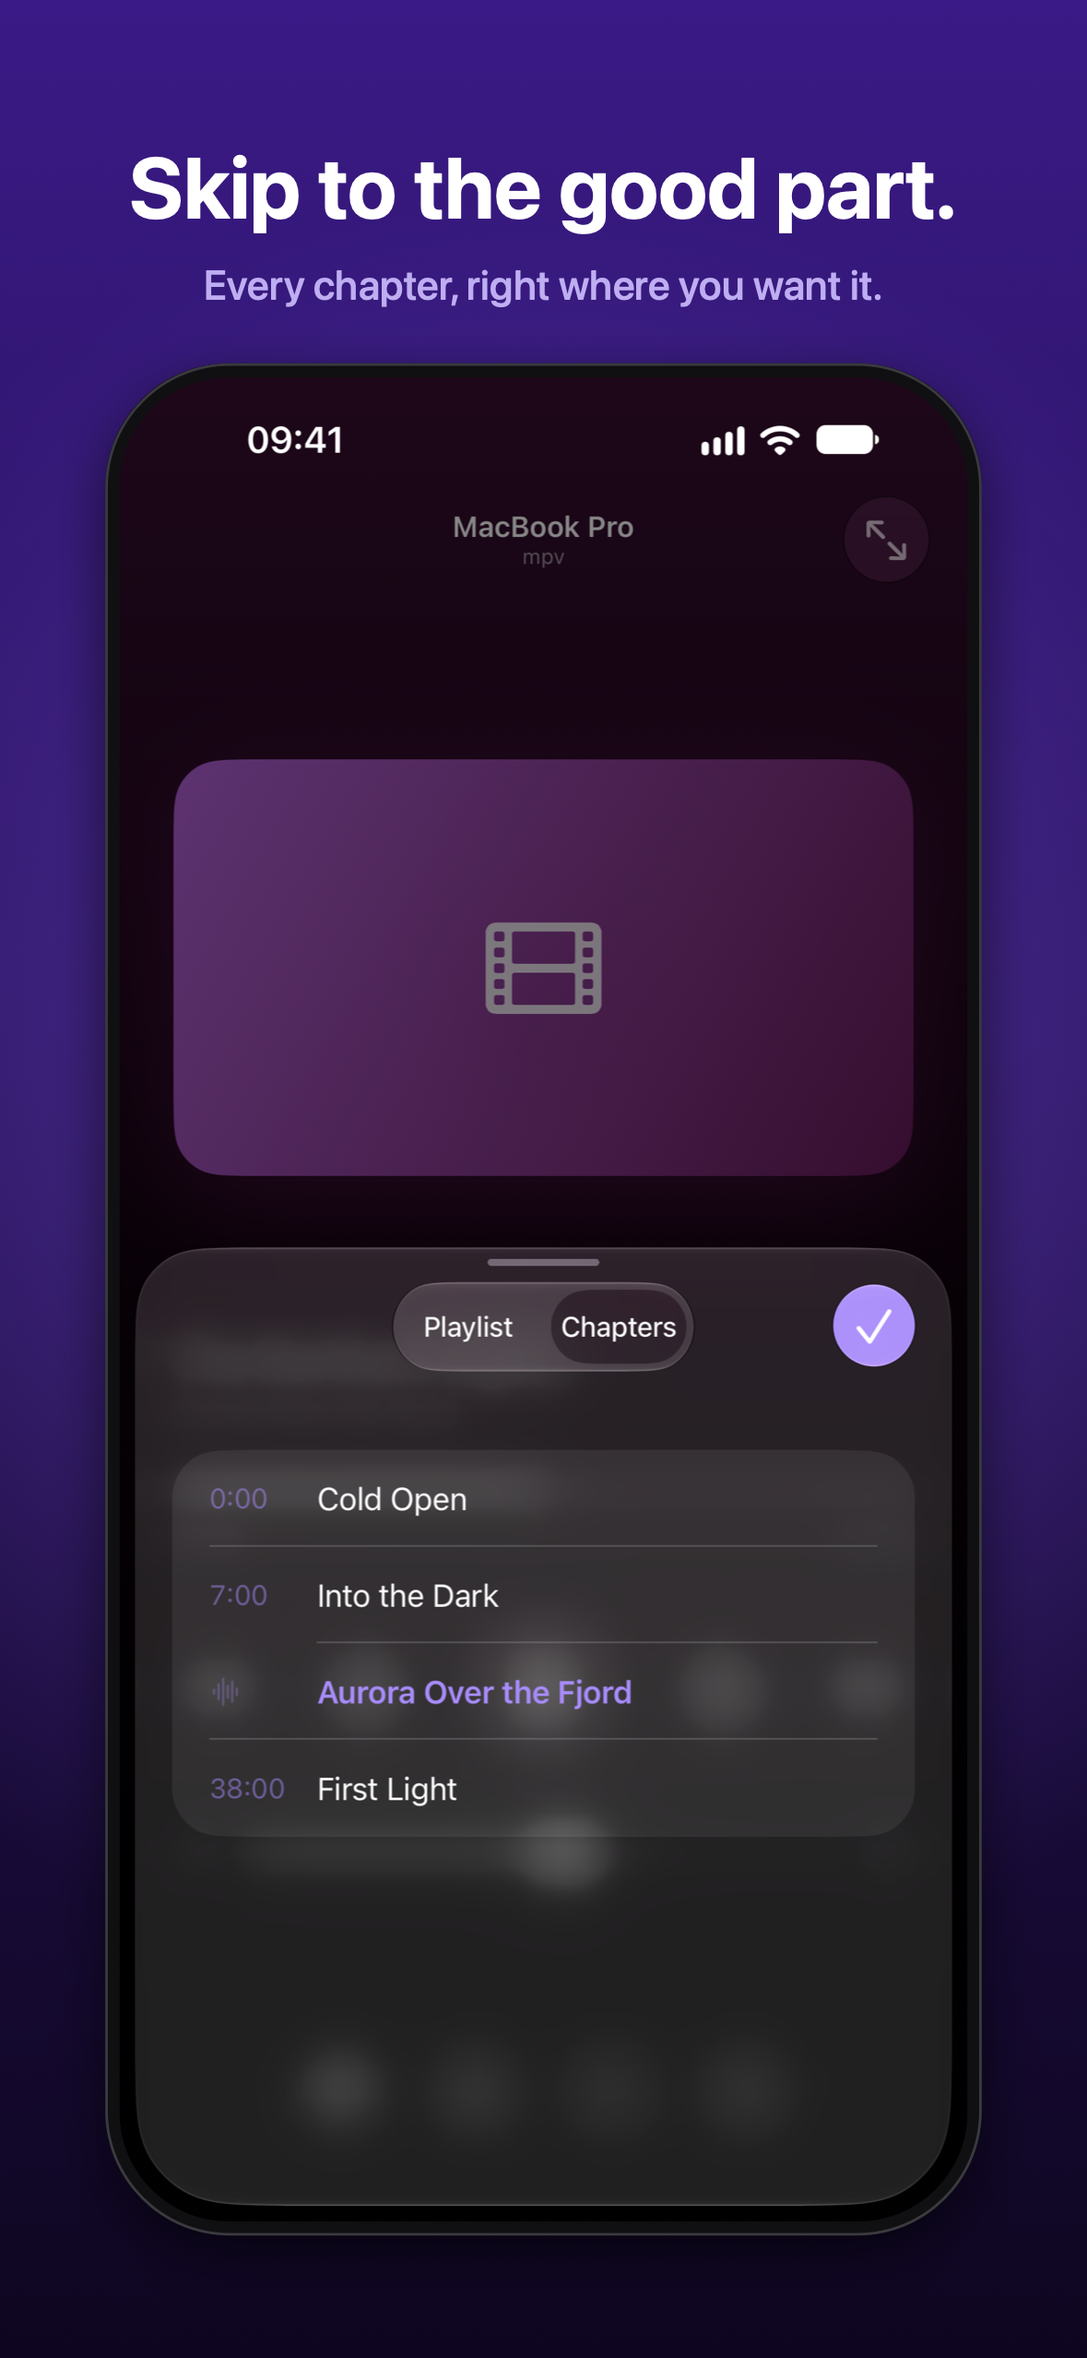
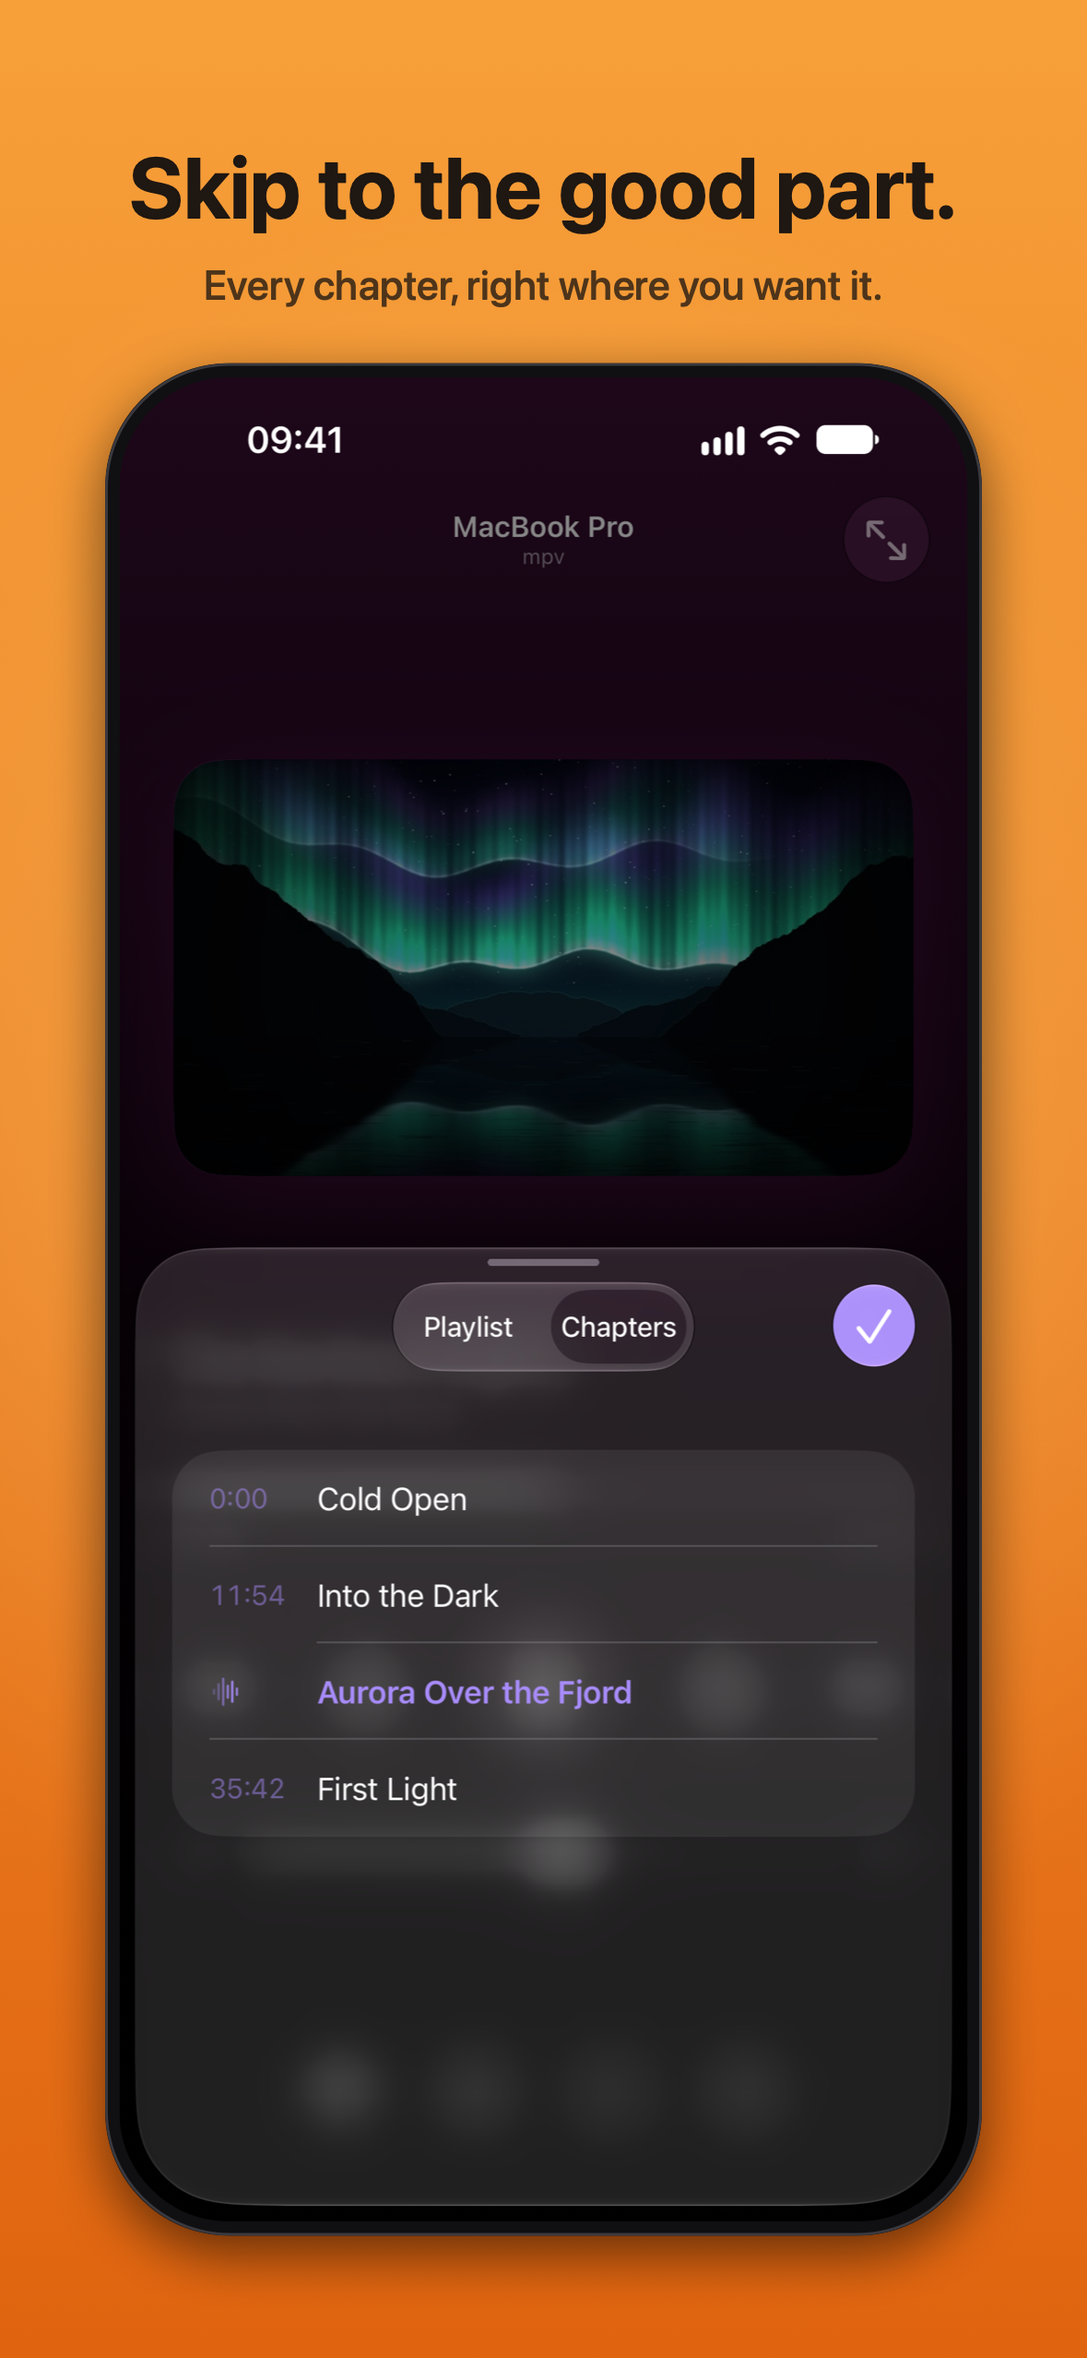
Put the App Store art on the tiger's orange, with screenshots from a stand-in Mac
The screenshots and headers move from purple to the icon's orange, with
dark text, and the headers' icon gets a shadow so it doesn't melt into the
backdrop. The phone in the screenshots is connected to "MacBook Pro" and
shows a picture: ScreenshotCompanion runs the companion's own server and
pairing with the demo series, sending a frame make-demo-frame.swift draws.

diff --git a/App/Tools/make-demo-frame.swift b/App/Tools/make-demo-frame.swift
@@ -1,0 +1,197 @@
+import AppKit
+import CoreImage
+
+// Draws the frame the App Store screenshots show in the artwork: a made-up
+// still for the demo's "The Northern Lights", an aurora over a fjord. It is
+// saved as the companion sends frames, a 960 px JPEG.
+//
+//   swift make-demo-frame.swift <out.jpg>
+
+let W = 1920, H = 1080
+let horizon: CGFloat = 360
+let space = CGColorSpace(name: CGColorSpace.sRGB)!
+let ci = CIContext(options: [.workingColorSpace: space])
+
+func context() -> CGContext {
+    CGContext(data: nil, width: W, height: H, bitsPerComponent: 8, bytesPerRow: 0, space: space,
+              bitmapInfo: CGImageAlphaInfo.premultipliedLast.rawValue)!
+}
+
+func rgb(_ hex: UInt32, _ a: CGFloat = 1) -> CGColor {
+    CGColor(srgbRed: CGFloat((hex >> 16) & 0xFF) / 255, green: CGFloat((hex >> 8) & 0xFF) / 255,
+            blue: CGFloat(hex & 0xFF) / 255, alpha: a)
+}
+
+struct RNG {
+    var s: UInt64
+    mutating func next() -> CGFloat {
+        s = s &* 6364136223846793005 &+ 1442695040888963407
+        return CGFloat(Double(s >> 11) / Double(UInt64(1) << 53))
+    }
+}
+var rng = RNG(s: 20261028)
+
+func clamp(_ v: CGFloat) -> CGFloat { min(max(v, 0), 1) }
+
+// MARK: Sky and stars
+
+let sky = context()
+let skyGradient = CGGradient(colorsSpace: space, colors: [rgb(0x15505A), rgb(0x0A2A3A), rgb(0x061226), rgb(0x030616)] as CFArray,
+                             locations: [0, 0.18, 0.55, 1])!
+sky.drawLinearGradient(skyGradient, start: CGPoint(x: 0, y: horizon), end: CGPoint(x: 0, y: CGFloat(H)), options: [.drawsBeforeStartLocation])
+for _ in 0..<900 {
+    let x = rng.next() * CGFloat(W), y = horizon + 80 + rng.next() * (CGFloat(H) - horizon - 80)
+    let r = 0.5 + pow(rng.next(), 4) * 1.6
+    sky.setFillColor(rgb(0xEAF2FF, 0.25 + rng.next() * 0.7))
+    sky.fillEllipse(in: CGRect(x: x - r, y: y - r, width: 2 * r, height: 2 * r))
+}
+
+// MARK: Aurora: curtains of vertical rays
+
+struct Curtain {
+    var base: (CGFloat) -> CGFloat
+    var height: (CGFloat) -> CGFloat
+    var envelope: (CGFloat) -> CGFloat
+    var low: UInt32, mid: UInt32, high: UInt32
+    var strength: CGFloat
+}
+
+let curtains = [
+    // The main ribbon, dipping towards the end of the fjord.
+    Curtain(base: { x in horizon + 175 + 300 * pow((x - 1080) / 1150, 2) + 38 * sin(x / 150 + 0.7) + 18 * sin(x / 53) },
+            height: { x in 380 + 110 * sin(x / 230 + 1.4) + 40 * sin(x / 71) },
+            envelope: { x in clamp(1.25 - pow((x - 1000) / 1050, 2)) },
+            low: 0xD8FFE8, mid: 0x34F2A2, high: 0x9A5CFF, strength: 1.0),
+    // A fainter one above it, more violet.
+    Curtain(base: { x in horizon + 470 + 60 * sin(x / 240 + 2) - 0.1 * (x - 960) + 22 * sin(x / 61) },
+            height: { x in 280 + 80 * sin(x / 180 + 0.3) },
+            envelope: { x in clamp(1 - pow((x - 760) / 820, 2)) },
+            low: 0xC0FFEC, mid: 0x3BE0B0, high: 0xC86BFF, strength: 0.6),
+]
+
+let aurora = context()
+aurora.setBlendMode(.plusLighter)
+for curtain in curtains {
+    for xi in 0..<W {
+        let x = CGFloat(xi)
+        let rays = 0.55 + 0.25 * sin(x / 19 + 1.7) * sin(x / 6.1) + 0.2 * sin(x / 43 + 0.4)
+        let a = clamp(rays) * curtain.envelope(x) * curtain.strength
+        guard a > 0.01 else { continue }
+        let y0 = curtain.base(x), h = curtain.height(x)
+        let g = CGGradient(colorsSpace: space,
+                           colors: [rgb(curtain.low, 0), rgb(curtain.low, a), rgb(curtain.mid, a * 0.85),
+                                    rgb(curtain.mid, a * 0.45), rgb(curtain.high, a * 0.3), rgb(curtain.high, 0)] as CFArray,
+                           locations: [0, 0.015, 0.1, 0.4, 0.72, 1])!
+        aurora.saveGState()
+        aurora.clip(to: CGRect(x: x, y: y0 - 6, width: 1, height: h + 6))
+        aurora.drawLinearGradient(g, start: CGPoint(x: x, y: y0 - 6), end: CGPoint(x: x, y: y0 + h), options: [])
+        aurora.restoreGState()
+    }
+    // The bright lower edge that makes it read as a ribbon.
+    for xi in stride(from: 0, to: W, by: 2) {
+        let x = CGFloat(xi), e = curtain.envelope(x) * curtain.strength
+        guard e > 0.02 else { continue }
+        aurora.setStrokeColor(rgb(curtain.low, 0.4 * e))
+        aurora.setLineWidth(3)
+        aurora.move(to: CGPoint(x: x, y: curtain.base(x)))
+        aurora.addLine(to: CGPoint(x: x + 2, y: curtain.base(x + 2)))
+        aurora.strokePath()
+    }
+}
+
+let auroraImage = CIImage(cgImage: aurora.makeImage()!)
+let soft = auroraImage.applyingGaussianBlur(sigma: 1.4).cropped(to: auroraImage.extent)
+let glow = auroraImage.applyingGaussianBlur(sigma: 28).cropped(to: auroraImage.extent)
+    .applyingFilter("CIColorControls", parameters: [kCIInputSaturationKey: 1.2, kCIInputBrightnessKey: 0])
+var scene = CIImage(cgImage: sky.makeImage()!)
+scene = soft.applyingFilter("CIAdditionCompositing", parameters: [kCIInputBackgroundImageKey: scene])
+scene = glow.applyingFilter("CIAdditionCompositing", parameters: [kCIInputBackgroundImageKey: scene])
+
+// MARK: Mountains
+
+/// A jagged ridge between two points, by midpoint displacement.
+func ridge(from a: CGPoint, to b: CGPoint, roughness: CGFloat, depth: Int) -> [CGPoint] {
+    var points = [a, b]
+    var spread = roughness
+    for _ in 0..<depth {
+        var next: [CGPoint] = []
+        for i in 0..<(points.count - 1) {
+            let p = points[i], q = points[i + 1]
+            next.append(p)
+            next.append(CGPoint(x: (p.x + q.x) / 2 + (rng.next() - 0.5) * spread * 0.3,
+                                y: (p.y + q.y) / 2 + (rng.next() - 0.5) * spread))
+        }
+        next.append(points.last!)
+        points = next
+        spread *= 0.55
+    }
+    return points
+}
+
+func fill(_ ctx: CGContext, ridge points: [CGPoint], down floor: CGFloat, color: CGColor, rim: CGColor? = nil) {
+    let path = CGMutablePath()
+    path.move(to: CGPoint(x: points[0].x, y: floor))
+    points.forEach { path.addLine(to: $0) }
+    path.addLine(to: CGPoint(x: points.last!.x, y: floor))
+    path.closeSubpath()
+    ctx.addPath(path)
+    ctx.setFillColor(color)
+    ctx.fillPath()
+    if let rim {
+        ctx.addPath({ let p = CGMutablePath(); p.addLines(between: points); return p }())
+        ctx.setStrokeColor(rim)
+        ctx.setLineWidth(1.5)
+        ctx.strokePath()
+    }
+}
+
+let land = context()
+// Far peaks at the end of the fjord, faintly lit by the aurora.
+fill(land, ridge: ridge(from: CGPoint(x: 560, y: horizon + 30), to: CGPoint(x: 1420, y: horizon + 20), roughness: 120, depth: 7)
+        .map { CGPoint(x: $0.x, y: max($0.y, horizon) + 40 * sin(($0.x - 560) / 860 * .pi)) },
+     down: horizon - 2, color: rgb(0x0E2430), rim: rgb(0x3FBF96, 0.35))
+// Middle slopes.
+fill(land, ridge: ridge(from: CGPoint(x: 300, y: horizon + 150), to: CGPoint(x: 900, y: horizon + 6), roughness: 90, depth: 7),
+     down: horizon - 2, color: rgb(0x08151E), rim: rgb(0x2E9C7C, 0.25))
+fill(land, ridge: ridge(from: CGPoint(x: 1050, y: horizon + 10), to: CGPoint(x: 1700, y: horizon + 170), roughness: 90, depth: 7),
+     down: horizon - 2, color: rgb(0x08151E), rim: rgb(0x2E9C7C, 0.25))
+// The fjord's steep walls, closest and darkest.
+fill(land, ridge: [CGPoint(x: -10, y: horizon + 560)] + ridge(from: CGPoint(x: 0, y: horizon + 540), to: CGPoint(x: 700, y: horizon), roughness: 150, depth: 8),
+     down: horizon - 2, color: rgb(0x03070B), rim: rgb(0x1E6E5A, 0.3))
+fill(land, ridge: ridge(from: CGPoint(x: 1260, y: horizon), to: CGPoint(x: 1930, y: horizon + 470), roughness: 150, depth: 8),
+     down: horizon - 2, color: rgb(0x03070B), rim: rgb(0x1E6E5A, 0.3))
+
+scene = CIImage(cgImage: land.makeImage()!).composited(over: scene)
+
+// MARK: Water: the scene mirrored, darker and smeared sideways
+
+let above = scene.cropped(to: CGRect(x: 0, y: horizon, width: CGFloat(W), height: CGFloat(H) - horizon))
+let mirrored = above.transformed(by: CGAffineTransform(a: 1, b: 0, c: 0, d: -1, tx: 0, ty: 2 * horizon)).clampedToExtent()
+    .applyingFilter("CIMotionBlur", parameters: [kCIInputRadiusKey: 14, kCIInputAngleKey: 0])
+    .applyingFilter("CIColorMatrix", parameters: [
+        "inputRVector": CIVector(x: 0.5, y: 0, z: 0, w: 0), "inputGVector": CIVector(x: 0, y: 0.55, z: 0, w: 0),
+        "inputBVector": CIVector(x: 0, y: 0, z: 0.6, w: 0), "inputBiasVector": CIVector(x: 0.004, y: 0.008, z: 0.016, w: 0),
+    ])
+    .cropped(to: CGRect(x: 0, y: 0, width: CGFloat(W), height: horizon))
+scene = above.composited(over: mirrored)
+
+let finish = context()
+finish.draw(ci.createCGImage(scene, from: CGRect(x: 0, y: 0, width: W, height: H))!, in: CGRect(x: 0, y: 0, width: W, height: H))
+// Ripples catching the light, and the water darkening towards us.
+for _ in 0..<420 {
+    let y = pow(rng.next(), 1.6) * (horizon - 8)
+    let x = rng.next() * CGFloat(W), length = 20 + rng.next() * 160 * (1 - y / horizon)
+    finish.setFillColor(rng.next() < 0.6 ? rgb(0x000000, 0.35) : rgb(0x8FFFD2, 0.06 + 0.06 * y / horizon))
+    finish.fill(CGRect(x: x, y: y, width: length, height: 1 + rng.next() * 1.5))
+}
+let shade = CGGradient(colorsSpace: space, colors: [rgb(0x000000, 0.65), rgb(0x000000, 0)] as CFArray, locations: [0, 1])!
+finish.drawLinearGradient(shade, start: .zero, end: CGPoint(x: 0, y: horizon), options: [])
+
+var out = CIImage(cgImage: finish.makeImage()!)
+out = out.applyingFilter("CIVignette", parameters: [kCIInputIntensityKey: 0.45, kCIInputRadiusKey: 1.8])
+out = out.cropped(to: CGRect(x: 0, y: 0, width: W, height: H))
+
+out = out.applyingFilter("CILanczosScaleTransform", parameters: [kCIInputScaleKey: 0.5])
+let url = URL(fileURLWithPath: CommandLine.arguments[1])
+try! ci.writeJPEGRepresentation(of: out, to: url, colorSpace: space,
+                                options: [CIImageRepresentationOption(rawValue: kCGImageDestinationLossyCompressionQuality as String): 0.7])

diff --git a/App/Tools/make-store-art.swift b/App/Tools/make-store-art.swift
@@ -41,9 +41,10 @@ func render(width: Int, height: Int, to url: URL, _ draw: (CGRect) -> Void) {
     CGImageDestinationFinalize(destination)
 }
 
+/// The tiger icon's orange, with text in the near-black of its stripes.
 func backdrop(_ rect: CGRect, glowAt glow: CGPoint, glowRadius: CGFloat) {
-    NSGradient(colors: [color(0x3A1A86), color(0x0E0620)])!.draw(in: rect, angle: -90)
-    NSGradient(colors: [color(0x8B5CF6, 0.45), color(0x8B5CF6, 0)])!
+    NSGradient(colors: [color(0xF7A03A), color(0xE0640F)])!.draw(in: rect, angle: -90)
+    NSGradient(colors: [color(0xFFD27A, 0.45), color(0xFFD27A, 0)])!
         .draw(fromCenter: glow, radius: 0, toCenter: glow, radius: glowRadius, options: [])
 }
 
@@ -101,9 +102,9 @@ for (width, height) in [(1320, 2868), (1179, 2556)] {
             let lines = CGFloat(shot.headline.split(separator: "\n").count)
             let headlineHeight = 118 * k * lines
             let headlineTop = H - 170 * k
-            text(shot.headline, size: 104 * k, weight: .bold, color: .white, alignment: .center,
+            text(shot.headline, size: 104 * k, weight: .bold, color: color(0x1E1712), alignment: .center,
                  in: CGRect(x: 80 * k, y: headlineTop - headlineHeight, width: W - 160 * k, height: headlineHeight))
-            text(shot.subline, size: 50 * k, weight: .medium, color: color(0xCDBEFF, 0.9), alignment: .center,
+            text(shot.subline, size: 50 * k, weight: .medium, color: color(0x1E1712, 0.78), alignment: .center,
                  in: CGRect(x: 80 * k, y: headlineTop - headlineHeight - 100 * k, width: W - 160 * k, height: 70 * k))
             let phoneWidth = 1030 * k, phoneHeight = phoneWidth * 2868 / 1320
             let phoneTop = headlineTop - headlineHeight - 170 * k
@@ -139,14 +140,25 @@ for (width, height) in [(3840, 1646), (5244, 2950)] {
         let blockHeight = iconSize + s * 0.05 + s * 0.1 + s * 0.12
         let top = H / 2 + blockHeight / 2
         let iconRect = CGRect(x: left, y: top - iconSize, width: iconSize, height: iconSize)
+        let iconShape = NSBezierPath(roundedRect: iconRect, xRadius: iconSize * 0.225, yRadius: iconSize * 0.225)
+        // A shadow, or the orange icon melts into the orange backdrop.
         NSGraphicsContext.saveGraphicsState()
-        NSBezierPath(roundedRect: iconRect, xRadius: iconSize * 0.225, yRadius: iconSize * 0.225).addClip()
+        let shadow = NSShadow()
+        shadow.shadowColor = color(0x5A2300, 0.45)
+        shadow.shadowBlurRadius = iconSize * 0.12
+        shadow.shadowOffset = NSSize(width: 0, height: -iconSize * 0.04)
+        shadow.set()
+        color(0xE0640F).setFill()
+        iconShape.fill()
+        NSGraphicsContext.restoreGraphicsState()
+        NSGraphicsContext.saveGraphicsState()
+        iconShape.addClip()
         icon.draw(in: iconRect)
         NSGraphicsContext.restoreGraphicsState()
         let nameTop = iconRect.minY - s * 0.04
-        text("MPV Player Remote", size: s * 0.085, weight: .bold, color: .white, alignment: .left,
+        text("MPV Player Remote", size: s * 0.085, weight: .bold, color: color(0x1E1712), alignment: .left,
              in: CGRect(x: left, y: nameTop - s * 0.11, width: W * 0.4, height: s * 0.11))
-        text("Control mpv on your Mac\nfrom your iPhone.", size: s * 0.05, weight: .medium, color: color(0xCDBEFF, 0.9),
+        text("Control mpv on your Mac\nfrom your iPhone.", size: s * 0.05, weight: .medium, color: color(0x1E1712, 0.78),
              alignment: .left, in: CGRect(x: left, y: nameTop - s * 0.11 - s * 0.14, width: W * 0.4, height: s * 0.13))
     }
 }

diff --git a/App/Tools/ScreenshotCompanion/Sources/screenshot-companion/main.swift b/App/Tools/ScreenshotCompanion/Sources/screenshot-companion/main.swift
@@ -1,0 +1,54 @@
+import Foundation
+import RemoteProtocol
+
+// screenshot-companion <frame.jpg> [--port PORT] [--at SECONDS]
+//
+// Serves the demo series as "MacBook Pro", with the frame from
+// make-demo-frame.swift. RemoteServer, PairingStore and DemoPlayer are the
+// real ones, linked in.
+
+nonisolated func log(_ message: String) {
+    print("[\(Date.now.formatted(date: .omitted, time: .standard))] \(message)")
+}
+setvbuf(stdout, nil, _IOLBF, 0)
+signal(SIGPIPE, SIG_IGN)
+
+var arguments = CommandLine.arguments.dropFirst()
+guard let framePath = arguments.popFirst(), let frame = FileManager.default.contents(atPath: framePath) else {
+    print("Usage: screenshot-companion <frame.jpg> [--port PORT] [--at SECONDS]")
+    exit(64)
+}
+var port = RemoteService.defaultPort
+var start: Double?
+while let argument = arguments.popFirst() {
+    switch argument {
+    case "--port": port = arguments.popFirst().flatMap(UInt16.init) ?? port
+    case "--at": start = arguments.popFirst().flatMap(Double.init)
+    default:
+        print("Unknown option \(argument)")
+        exit(64)
+    }
+}
+
+let pairing = PairingStore()
+let server = RemoteServer(computerName: "MacBook Pro", port: port, pairing: pairing)
+let demo = DemoPlayer()
+if let start { demo.perform(.seek(to: start)) }
+server.update(demo.state, positionOnly: false)
+demo.onChange = { state in server.update(state, positionOnly: false) }
+server.onCommand = { command in demo.perform(command) }
+server.updateThumbnail(frame)
+pairing.onAnnounce = { code in log("Pairing code: \(code)") }
+server.onFailure = { error in
+    log("Listener failed: \(error)")
+    exit(1)
+}
+
+log("Pairing code: \(pairing.code)")
+do {
+    try server.start()
+} catch {
+    log("Could not listen on port \(port): \(error)")
+    exit(1)
+}
+CFRunLoopRun()

diff --git a/App/Tools/ScreenshotCompanion/Package.swift b/App/Tools/ScreenshotCompanion/Package.swift
@@ -1,0 +1,21 @@
+// swift-tools-version: 6.2
+import PackageDescription
+
+// A stand-in Mac for the App Store screenshots: the companion's own server and
+// pairing, playing the app's demo series and sending one fixed frame, so the
+// phone shows a real connection to "MacBook Pro" with a picture.
+let package = Package(
+    name: "ScreenshotCompanion",
+    platforms: [.macOS(.v14)],
+    dependencies: [
+        .package(path: "../../../Shared"),
+    ],
+    targets: [
+        .executableTarget(
+            name: "screenshot-companion",
+            dependencies: [.product(name: "RemoteProtocol", package: "Shared")],
+            // DemoPlayer comes from the app, which is main-actor by default.
+            swiftSettings: [.defaultIsolation(MainActor.self)]
+        ),
+    ]
+)

diff --git a/App/Tools/ScreenshotCompanion/Sources/screenshot-companion/PairingStore.swift b/App/Tools/ScreenshotCompanion/Sources/screenshot-companion/PairingStore.swift
@@ -1,0 +1,1 @@
+../../../../../Companion/Sources/PairingStore.swift

diff --git a/App/Tools/ScreenshotCompanion/Sources/screenshot-companion/RemoteServer.swift b/App/Tools/ScreenshotCompanion/Sources/screenshot-companion/RemoteServer.swift
@@ -1,0 +1,1 @@
+../../../../../Companion/Sources/RemoteServer.swift

diff --git a/App/Tools/ScreenshotCompanion/Sources/screenshot-companion/DemoPlayer.swift b/App/Tools/ScreenshotCompanion/Sources/screenshot-companion/DemoPlayer.swift
@@ -1,0 +1,1 @@
+../../../../MPVRemote/Model/DemoPlayer.swift

diff --git a/README.md b/README.md
@@ -127,8 +127,21 @@ swift App/Tools/make-store-art.swift <raw-screenshots-dir> App/MPVRemote/Assets.
 ```
 
 The raw screenshots come from the iPhone 18 Pro Max simulator
-(`xcrun simctl io booted screenshot …`), named as in the `shots` list at the
-top of `make-store-art.swift`.
+(`xcrun simctl io booted screenshot …`, after
+`xcrun simctl status_bar booted override --time 09:41 --batteryState discharging --batteryLevel 100`),
+named as in the `shots` list at the top of `make-store-art.swift`. The phone
+is connected to a stand-in Mac rather than in Demo Mode, so they show
+"MacBook Pro" and a picture: `ScreenshotCompanion` runs the companion's own
+server with the demo series, sending a frame `make-demo-frame.swift` draws
+(an aurora, for "The Northern Lights"):
+
+```bash
+swift App/Tools/make-demo-frame.swift /tmp/frame.jpg
+HOME=/tmp/shots CFFIXED_USER_HOME=/tmp/shots swift run --package-path App/Tools/ScreenshotCompanion screenshot-companion /tmp/frame.jpg --port 7656 --at 1452
+```
+
+Tap *MacBook Pro* and enter the code it prints. The spare home folder keeps
+the simulator out of the real companion's `paired-devices.json`.
 
 ## How it fits together
 
